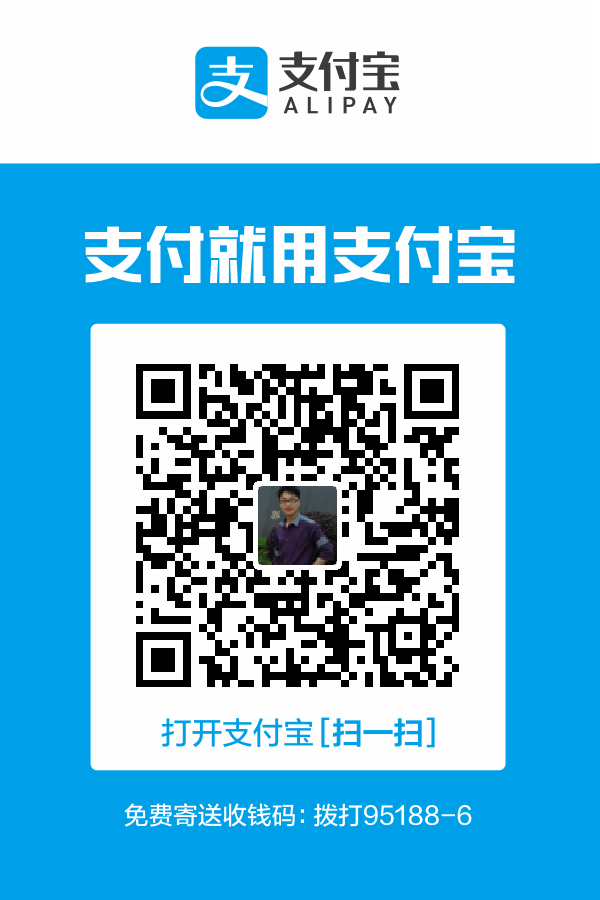
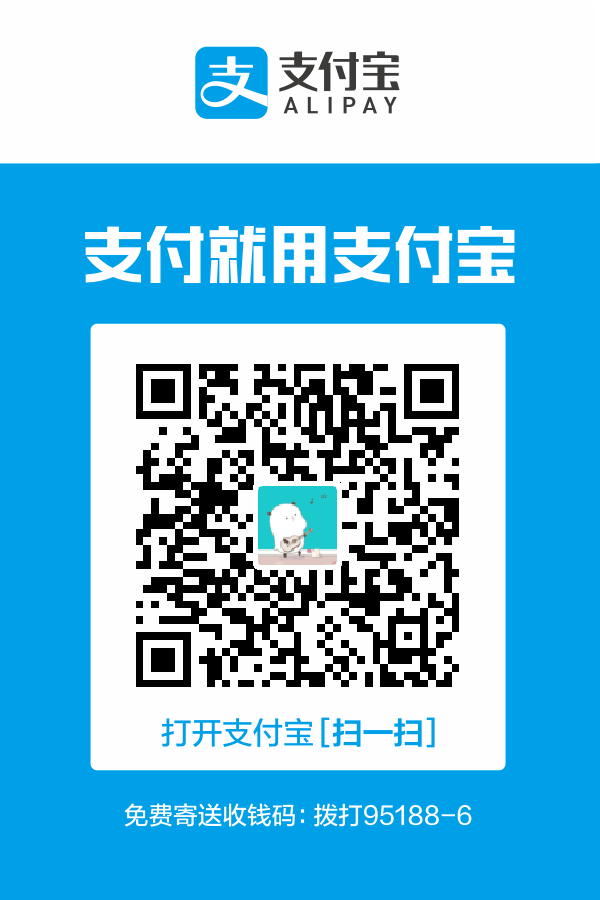
docs(WorkExperience.md): updated; chore(ali-pay.png/book.json): updated;

diff --git a/assets/scripts/md-config.js b/assets/scripts/md-config.js
@@ -37,7 +37,7 @@ module.exports = {
                 "title": "自我迭代"
             },
             "WorkExperience.md": {
-                "date": "2020年8月31日",
+                "date": "2020年9月1日",
                 "path": "daily-life/WorkExperience.md",
                 "title": "工作心得"
             }

diff --git a/daily-life/WorkExperience.md b/daily-life/WorkExperience.md
@@ -1,10 +1,12 @@
 # 工作心得
 
-#### 那些提高了工作效率的技巧
+## 工具篇
+
+#### 邮件类
 
 目标：每个人的时间都是有限的宝贵的，所以工作中能节省时间的技巧都是好技巧。
 
-- 巧用：邮件定时发送
+- **巧用：邮件定时发送**
 
     场景：日常工作中，写邮件、回复邮件的事情再普通不过了，但是还时不时会遇到一些问题，比如点击了发送邮件之后，立即或过了一会儿，想到邮件中的内容有错误、不完整、或语言表达还可以再润色一下等等。
     
@@ -22,9 +24,36 @@
     ![阿里邮箱定时发送功能](../assets/images/email-timer-ali.png)
     
     ![126邮箱定时发送功能](../assets/images/email-timer-126.png)
-    
-- 巧用：邮件签名
+   
+- **巧用：邮件签名**
 
     场景：每次写邮件或回复邮件，末尾都要敲出自己的感谢、祝福语、联系方式等信息。
     
-    处理：添加邮件签名，则在每一封新建邮件中会自动加上已定义的签名信息。
+    处理：添加邮件签名，则在每一封新建邮件中会自动加上已定义的签名信息。
+
+## 沟通篇
+
+#### 消息类
+
+- **发送一条简洁完整信息**
+
+    场景：在跟同事沟通的过程中，难免会出现如下情况，沟通一个问题需要 N 多个来回。
+    > 
+      A: Hi, 在吗？
+      B: z
+      A: 有空么
+      B: 有
+      A: 有个问题想问你
+      B: en
+      A: 昨天的项目中，遇到了 xxx 问题。
+      B: xxxx
+    
+    处理：沟通中，直接把自认为所有的信息一次性编辑完整再发送，再等待回复。
+    > 
+      A: Hi, 昨天项目中，遇到了 xxx 问题，你有空了，帮忙看一下。非常感谢！
+      B: xxxx
+
+#### 话语类
+    
+- **注意沟通语气：每个人都有自尊心，沟通中适当放低姿态，更容易达到沟通效果**
+

diff --git a/README.md b/README.md
@@ -21,7 +21,7 @@
 - [个人装换机之 Windows 系列](/daily-life/InstallSystem-windows.md): <sub><sup>(2020年8月31日)</sup></sub>
 - [自我迭代](/daily-life/SelfReview.md): <sub><sup>(2020年7月2日)</sup></sub>
 - [优秀的自我介绍很重要](/daily-life/TheImportantOfSelfIntroduction.md): <sub><sup>(2020年3月9日)</sup></sub>
-- [工作心得](/daily-life/WorkExperience.md): <sub><sup>(2020年8月31日)</sup></sub>
+- [工作心得](/daily-life/WorkExperience.md): <sub><sup>(2020年9月1日)</sup></sub>
 
 ## Full-stack
 全栈知识总结
@@ -68,4 +68,4 @@ Office 工具技巧
 
 - [Word: 文档操作精选技巧](/office/Word.md): <sub><sup>(2020年8月31日)</sup></sub>
 
-最后更新于2020年8月31日
+最后更新于2020年9月1日
